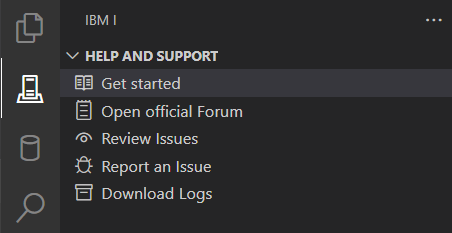
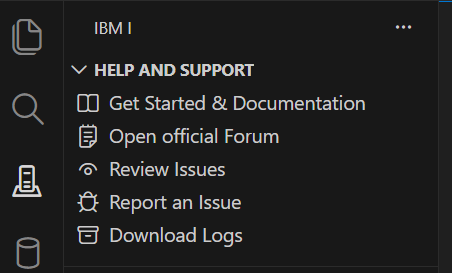
Overhaul the Help and Support section

diff --git a/.astro/astro/content.d.ts b/.astro/astro/content.d.ts
@@ -603,5 +603,5 @@ declare module 'astro:content' {
 
 	type AnyEntryMap = ContentEntryMap & DataEntryMap;
 
-	export type ContentConfig = typeof import("../../src/content/config.js");
+	export type ContentConfig = typeof import("./../../src/content/config.js");
 }
